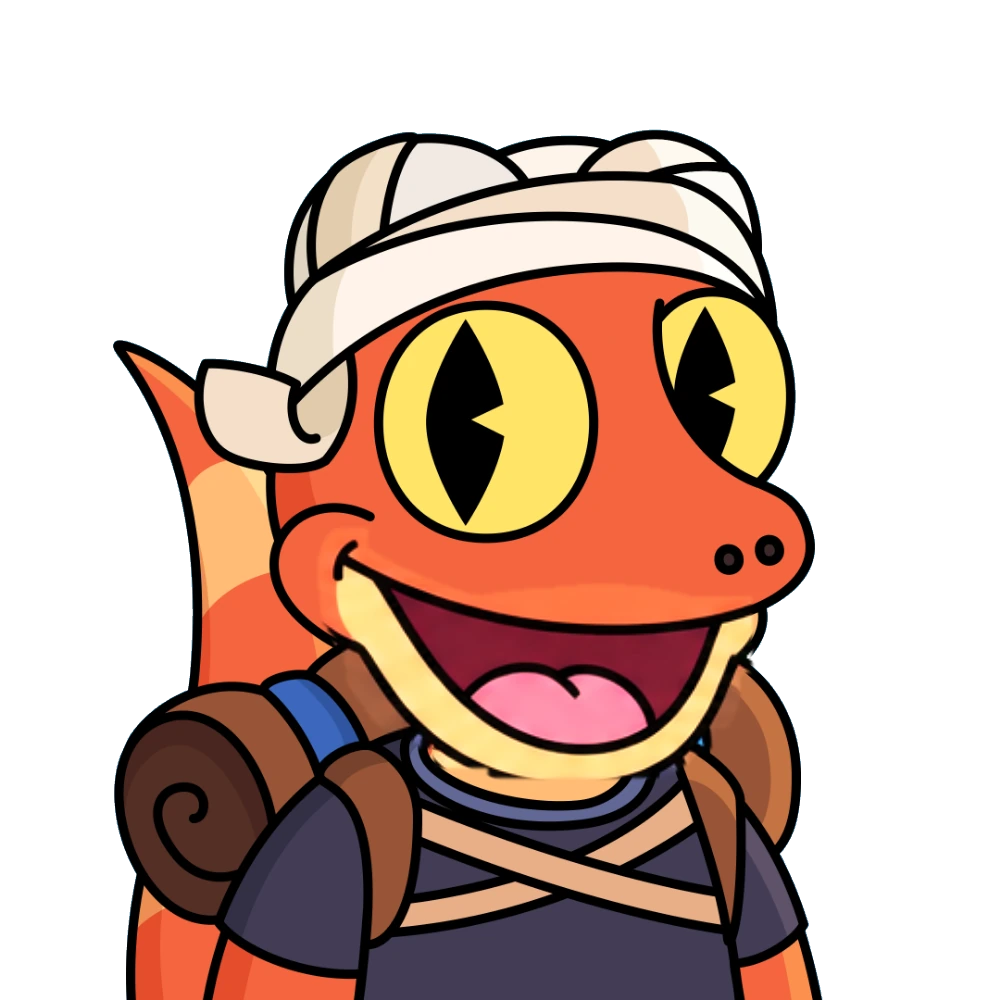
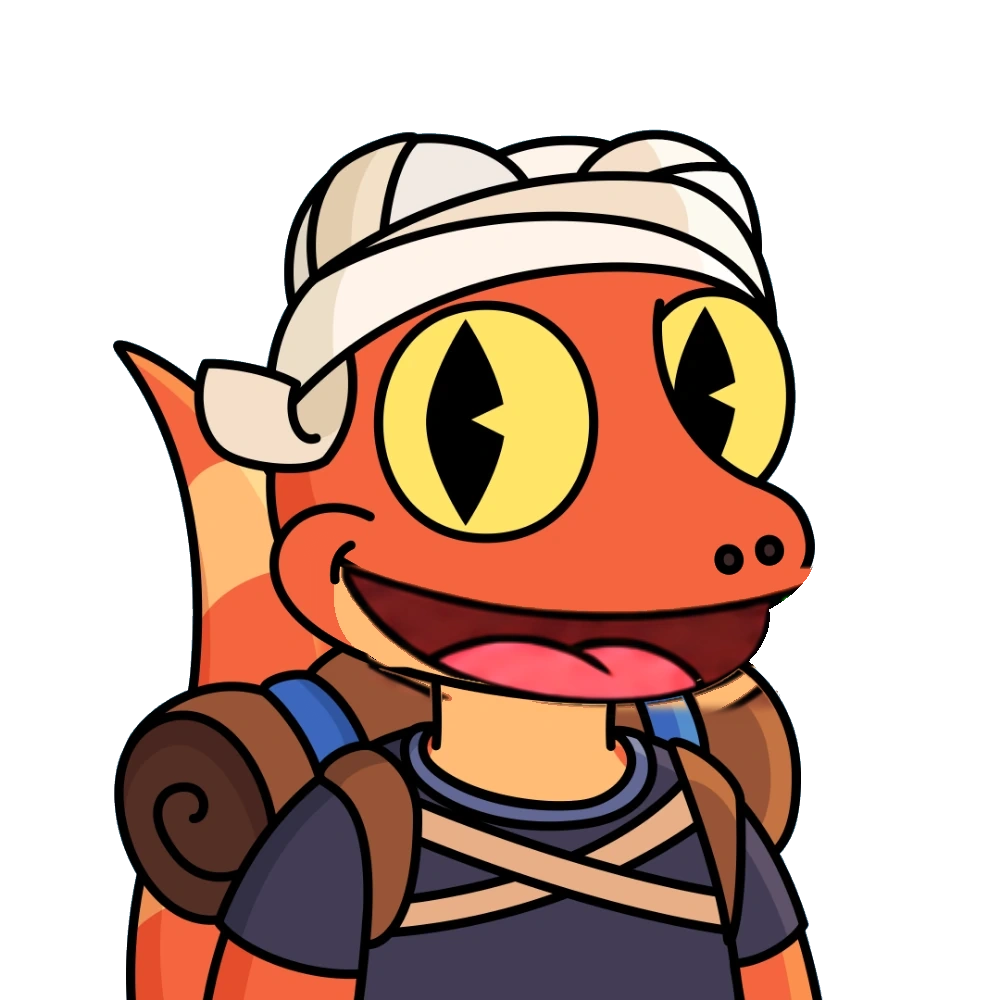
Gecko kit: real AH, EE, O, OO and L mouths from a fresh sheet (Canva), cleaned to the picture's own colours and jaw
Every regular Gecko uses these. The builder can take a hand-set mouth area for sheets; the kit engine finds a jaw colour even when it matches the snout's.

Claude-Session: https://claude.ai/code/session_01AAjfD4JXrwKrGtAMJHTTVa

Changed region(s): [[0.31, 0.527, 0.806, 0.806]]

diff --git a/builder.js b/builder.js
@@ -407,7 +407,8 @@ export async function build(orig, sheets, onStep = () => {}) {
   if (win) { onStep('Lining up the face…'); await tick(); for (const x of [ref, ...talk]) x.fit = refine(x, od, win); }
   // with a hand-set mouth area the face fit decides; the whole outline may differ more (a chair or arm cropped differently)
   const iouMin = sheets.clip ? 0.74 : 0.8;
-  if (ref.iou < iouMin || (win && ref.fit < 0.45)) P('Sheet 1\'s first panel (the rest mouth) doesn\'t line up with your picture.', 1, true);
+  const fitMin = sheets.fitMin || 0.45;
+  if (ref.iou < iouMin || (win && ref.fit < fitMin)) P('Sheet 1\'s first panel (the rest mouth) doesn\'t line up with your picture.', 1, true);
   const D1 = s1.slice(1).map(x => pdiff(x, ref)), heat = new Uint8Array(MW);
   for (const D of D1) for (let i = 0; i < MW; i++) heat[i] += D[i];
   const core = mainCore(and(open_(Uint8Array.from(heat, v => v >= 3 ? 1 : 0), 1), msil), 70, rough);
@@ -417,7 +418,7 @@ export async function build(orig, sheets, onStep = () => {}) {
   for (const x of s2) M[x.name] = nearCore(pdiff(x, ref), core);
   // a talking panel is bad if it doesn't line up on the face or doesn't change the mouth
   const bad = new Set();
-  for (const x of talk) if (x.iou < iouMin || (win && x.fit < 0.45) || count(M[x.name]) < 40) bad.add(x.name);
+  for (const x of talk) if (x.iou < (sheets.iouMin || iouMin) || (win && x.fit < fitMin) || count(M[x.name]) < 40) bad.add(x.name);
   let zone = new Uint8Array(MW);
   for (const k in M) if (!bad.has(k)) zone = or(zone, M[k]);
   zone = dilate(zone, 3);

diff --git a/kit.js b/kit.js
@@ -317,7 +317,13 @@ export function fromKit(Timg, ref, { blink = true, dbg = null, wideFace = false,
     if (((p / N) | 0) > N * 0.88) botC[k]++; if (Z[p] && !nearK(snout, R[i], R[i + 1], R[i + 2]) && !mouthHue(R[i], R[i + 1], R[i + 2])) jawC[k]++; }
   for (let k = 0; k < 32768; k++) if (botC[k] > 200) jawC[k] = 0;
   const botP = palette(botC, 200, 1);   // what the reference wears: its colours along the bottom of the picture
-  const jawP = palette(jawC, 60, 1), onJawR = i => R[i + 3] > 200 && inPal(jawP, R[i], R[i + 1], R[i + 2]);
+  let jawP = palette(jawC, 60, 1);
+  // no jaw colour of its own found (the jaw shares a colour with the snout above the mouth's middle): every light colour
+  // in the mouth area but the main snout colour
+  if (!jawP.some(v => v)) { for (let p = 0; p < N * N; p++) { const i = p * 4; if (R[i + 3] < 220 || lum(R, i) < 300 || !Z[p]) continue; const k = bin(R[i], R[i + 1], R[i + 2]);
+      if (snout.length && k === snout[0]) continue; if (!mouthHue(R[i], R[i + 1], R[i + 2]) && !botC[k]) jawC[k]++; }
+    jawP = palette(jawC, 60, 1); }
+  const onJawR = i => R[i + 3] > 200 && inPal(jawP, R[i], R[i + 1], R[i + 2]);
   let chinT = null, lumJaw = 600, chinLearned = false;
   { const cnt = new Uint32Array(32768), rowS = new Float64Array(32768), below = new Uint8Array(N * N); let bk = -1, bn = 0;
     // the reference's jaw skin, in the upper half of the jaw below the mouth: a collar, shirt or scarf further down isn't the chin

diff --git a/index.html b/index.html
@@ -418,7 +418,7 @@ header .credit b{font-weight:400}
 // Config
 // ---------------------------------------------------------------------------
 const MP_VERSION = '0.10.14';
-const ART_V = '20261116-2100';   // bump when art changes, so phones never show old cached frames
+const ART_V = '20261116-2200';   // bump when art changes, so phones never show old cached frames
 const MP_MODEL = 'https://storage.googleapis.com/mediapipe-models/face_landmarker/face_landmarker/float16/1/face_landmarker.task';
 
 // Each Nibble: eye layers e0–e4 and ten whole-face mouth frames m0–m9, all lined up at 1000×1000.

diff --git a/tools/kit_from_sheet.py b/tools/kit_from_sheet.py
@@ -1,0 +1,54 @@
+# Puts a kit's new talking frames (built from a fresh sheet by the builder, full 1000px PNGs) into faces/<id>/: above the
+# jaw row the new frame, below it the picture itself (the sheet's neck is never used); the picture's own jaw outline goes
+# back on wherever the new mouth doesn't cover it; anything the new frame left see-through over the face is the picture.
+# usage: python3 tools/kit_from_sheet.py <id> <dir with m<k>.png> <k,k> <jaw row> [jaw-line row range y0,y1] [top row x0,x1]
+import sys
+import numpy as np
+from PIL import Image
+from scipy import ndimage
+tid, src, ks, jr = sys.argv[1], sys.argv[2], [int(k) for k in sys.argv[3].split(',')], int(sys.argv[4])
+ly0, ly1 = [int(v) for v in sys.argv[5].split(',')] if len(sys.argv) > 5 else (jr - 40, jr + 6)
+top, cx0, cx1 = [int(v) for v in sys.argv[6].split(',')] if len(sys.argv) > 6 else (0, 0, 1000)   # the new frame only inside rows top..jr, columns cx0..cx1
+base = np.array(Image.open(f'faces/{tid}/base.webp').convert('RGBA')).astype(float)
+lum = lambda a: a[..., 0] * 0.3 + a[..., 1] * 0.59 + a[..., 2] * 0.11
+bl = lum(base) < 90; bl[:ly0] = False; bl[ly1:] = False; bl = ndimage.binary_dilation(bl, iterations=1)
+for k in ks:
+    f = np.array(Image.open(f'{src}/m{k}.png').convert('RGBA')).astype(float)
+    hole = (f[..., 3] < 200) & (base[..., 3] > 200); f[hole] = base[hole]
+    # the face's own colours (from the picture around the mouth); a frame pixel that's none of these, nor a mouth colour,
+    # nor ink, is the sheet's edge or background: the picture there
+    zone = np.zeros(f.shape[:2], bool); zone[max(0, jr - 220):jr] = True
+    fc = base[zone & (base[..., 3] > 200) & (lum(base) > 120)][:, :3]
+    q = (fc // 24).astype(int); keys, cnt = np.unique(q[:, 0] * 10000 + q[:, 1] * 100 + q[:, 2], return_counts=True)
+    pal = [np.array([k // 10000, (k // 100) % 100, k % 100]) * 24 + 12 for k, c in zip(keys, cnt) if c > 800]
+    rr, gg, bb = f[..., 0], f[..., 1], f[..., 2]
+    ok = (lum(f) < 110) | ((rr > 100) & (gg < rr * 0.5) & (bb > gg * 0.8)) | ((rr > 200) & (bb > 140) & (gg < 170)) | ((lum(f) > 225) & (np.ptp(f[..., :3], -1) < 30))
+    for c in pal: ok |= np.abs(f[..., :3] - c).sum(-1) < 70
+    stray = ~ok & (f[..., 3] > 0); stray[jr:] = False; f[stray] = base[stray]
+    out_sil = ndimage.binary_erosion(base[..., 3] < 128, iterations=2); f[out_sil] = base[out_sil]   # nothing past the picture's own outline
+    # the sheet's picture is soft and speckled (it was compressed): smoothed, keeping the lines sharp
+    import cv2
+    sm = cv2.bilateralFilter(np.clip(f[..., :3], 0, 255).astype(np.uint8), 7, 40, 5).astype(float)
+    f[..., :3] = np.where((lum(f) < 90)[..., None], f[..., :3], sm)
+    # and the face's flat colours snapped to the picture's own exact ones (every Nibble's kit maps these colour by colour:
+    # an in-between shade from the sheet would map to the wrong skin and speckle)
+    exact = []
+    for c in pal:
+        near = np.abs(fc - c).sum(-1) < 40
+        if near.sum() > 200: exact.append(np.median(fc[near], 0))
+    rr, gg, bb = f[..., 0], f[..., 1], f[..., 2]
+    mouth = ((rr > 100) & (gg < rr * 0.5) & (bb > gg * 0.8)) | ((rr > 200) & (bb > 140) & (gg < 170)) | ((lum(f) > 225) & (np.ptp(f[..., :3], -1) < 30))
+    flat = (lum(f) >= 110) & ~mouth & (f[..., 3] > 200); flat[jr:] = False
+    if exact:
+        E = np.array(exact); P = f[flat][:, :3]; d = np.abs(P[:, None, :] - E[None]).sum(-1); best = d.argmin(1)
+        snap = d.min(1) < 90; P[snap] = E[best[snap]]; f[flat, :3] = P
+    m = np.zeros(f.shape[:2]); m[top:jr, cx0:cx1] = 1
+    a = ndimage.gaussian_filter(m, 4)[..., None]
+    out = f * a + base * (1 - a)
+    r, g, b = f[..., 0], f[..., 1], f[..., 2]
+    mc = ((r > 100) & (g < r * 0.5) & (b > g * 0.8)) | ((r > 200) & (b > 140) & (g < 170)) | ((lum(f) > 225) & (np.ptp(f[..., :3], -1) < 30))
+    line = bl & ~ndimage.binary_dilation(mc, iterations=3)
+    la = ndimage.gaussian_filter(line.astype(float), 0.7)[..., None]
+    out = base * la + out * (1 - la)
+    Image.fromarray(np.clip(out, 0, 255).astype(np.uint8), 'RGBA').save(f'faces/{tid}/m{k}.webp', quality=95, method=6)
+    print('frame', k)

diff --git a/tools/fix_kit_frames.py b/tools/fix_kit_frames.py
@@ -2,13 +2,14 @@
 # blurry patch on the fur): outside the mouth's own drawing (its lines, inside, teeth, tongue, grown a little) the frame
 # takes the original picture's pixels, softly blended at the edge. "copy0" frames have no mouth drawn at all and become
 # the resting mouth.
-# usage: python3 tools/fix_kit_frames.py <id> <k,k,...> [copy0:k,k]   (repo root)
+# usage: python3 tools/fix_kit_frames.py <id> <k,k,...> [grow near] [copy0:k,k]   (repo root)
 import sys
 import numpy as np
 from PIL import Image
 from scipy import ndimage
 tid, ks = sys.argv[1], [int(k) for k in sys.argv[2].split(',') if k]
-copy0 = [int(k) for k in sys.argv[3].split(':')[1].split(',')] if len(sys.argv) > 3 else []
+GROW, NEAR = (int(sys.argv[3]), int(sys.argv[4])) if len(sys.argv) > 4 and sys.argv[3].isdigit() else (14, 40)   # how far around the mouth the frame is kept / the picture's own mouth lines are cleared
+copy0 = [int(k) for k in sys.argv[-1].split(':')[1].split(',')] if sys.argv[-1].startswith('copy0:') else []
 base = np.array(Image.open(f'faces/{tid}/base.webp').convert('RGBA')).astype(float)
 m0 = Image.open(f'faces/{tid}/m0.webp')
 for k in copy0: m0.save(f'faces/{tid}/m{k}.webp', lossless=True); print('copied m0 ->', k)
@@ -18,15 +19,15 @@ for k in ks:
     d = np.abs(f[..., :3] - base[..., :3]).sum(-1)
     # the mouth's drawing: what changed AND is a line, the dark inside, red, pink or white teeth (not a lighter/darker fur blur)
     r, g, b = f[..., 0], f[..., 1], f[..., 2]
-    mouthy = (lum(f) < 90) | ((r > 120) & (g < r * 0.6)) | ((r > 200) & (b > 140) & (g < 170)) | ((lum(f) > 225) & (np.ptp(f[..., :3], -1) < 30))
+    mouthy = (lum(f) < 90) | ((r > 100) & (g < r * 0.5) & (b > g * 0.8)) | ((r > 200) & (b > 140) & (g < 170)) | ((lum(f) > 225) & (np.ptp(f[..., :3], -1) < 30))
     m = (d > 80) & mouthy & (f[..., 3] > 200)
     m = ndimage.binary_opening(m, iterations=1)
     lab, n = ndimage.label(m); sizes = ndimage.sum(m, lab, range(1, n + 1))
     keep = np.isin(lab, [i + 1 for i, s in enumerate(sizes) if s >= 60])
     # and the base's own mouth it replaces must go too: the area of the base's mouth drawing near it
     bm = ((lum(base) < 90) | ((base[..., 0] > 200) & (base[..., 2] > 140) & (base[..., 1] < 170))) & (base[..., 3] > 200)
-    region = ndimage.binary_dilation(keep, iterations=14)
-    near_base_mouth = bm & ndimage.binary_dilation(keep, iterations=40) & (np.abs(f[..., :3] - base[..., :3]).sum(-1) > 80)
+    region = ndimage.binary_dilation(keep, iterations=GROW)
+    near_base_mouth = bm & ndimage.binary_dilation(keep, iterations=NEAR) & (np.abs(f[..., :3] - base[..., :3]).sum(-1) > 80)
     region |= ndimage.binary_dilation(near_base_mouth, iterations=3)
     a = ndimage.gaussian_filter(region.astype(float), 3)
     a = np.clip(a * 1.6, 0, 1)[..., None]

diff --git a/tools/jaw_limit.py b/tools/jaw_limit.py
@@ -1,0 +1,28 @@
+# Keeps a kit frame's new mouth only down to its jaw: in each column, below the jaw's bottom line (the lower of the
+# picture's own jaw line and the new mouth's lowest red/pink/white plus the jaw's thickness) the picture shows through.
+# usage: python3 tools/jaw_limit.py <id> <k,k> <x0,x1,y0,y1 mouth search box> [thickness] [jaw-line row limit]
+import sys
+import numpy as np
+from PIL import Image
+from scipy import ndimage
+tid, ks = sys.argv[1], [int(k) for k in sys.argv[2].split(',')]
+x0, x1, y0, y1 = [int(v) for v in sys.argv[3].split(',')]; th = int(sys.argv[4]) if len(sys.argv) > 4 else 26; jy = int(sys.argv[5]) if len(sys.argv) > 5 else y1   # (the picture's jaw line is above row jy)
+base = np.array(Image.open(f'faces/{tid}/base.webp').convert('RGBA')).astype(float)
+lum = lambda a: a[..., 0] * 0.3 + a[..., 1] * 0.59 + a[..., 2] * 0.11
+bdark = lum(base) < 90
+for k in ks:
+    f = np.array(Image.open(f'faces/{tid}/m{k}.webp').convert('RGBA')).astype(float)
+    r, g, b = f[..., 0], f[..., 1], f[..., 2]
+    mc = ((r > 100) & (g < r * 0.5) & (b > g * 0.8)) | ((r > 200) & (b > 140) & (g < 170)) | ((lum(f) > 225) & (np.ptp(f[..., :3], -1) < 30) & (np.abs(f[..., :3] - base[..., :3]).sum(-1) > 60))
+    keep = np.zeros(f.shape[:2], bool)
+    for x in range(x0, x1):
+        ys = np.nonzero(mc[y0:y1, x])[0]
+        bj = np.nonzero(bdark[y0:jy, x])[0]
+        lim = (y0 + ys.max() + th) if len(ys) else -1
+        if len(bj): lim = max(lim, y0 + bj.max() + 3)
+        if lim > 0: keep[:lim, x] = True
+    keep[:y0] = True
+    a = ndimage.gaussian_filter(keep.astype(float), 1.5)[..., None]
+    out = f * a + base * (1 - a)
+    Image.fromarray(np.clip(out, 0, 255).astype(np.uint8), 'RGBA').save(f'faces/{tid}/m{k}.webp', quality=95, method=6)
+    print('limited', k)
